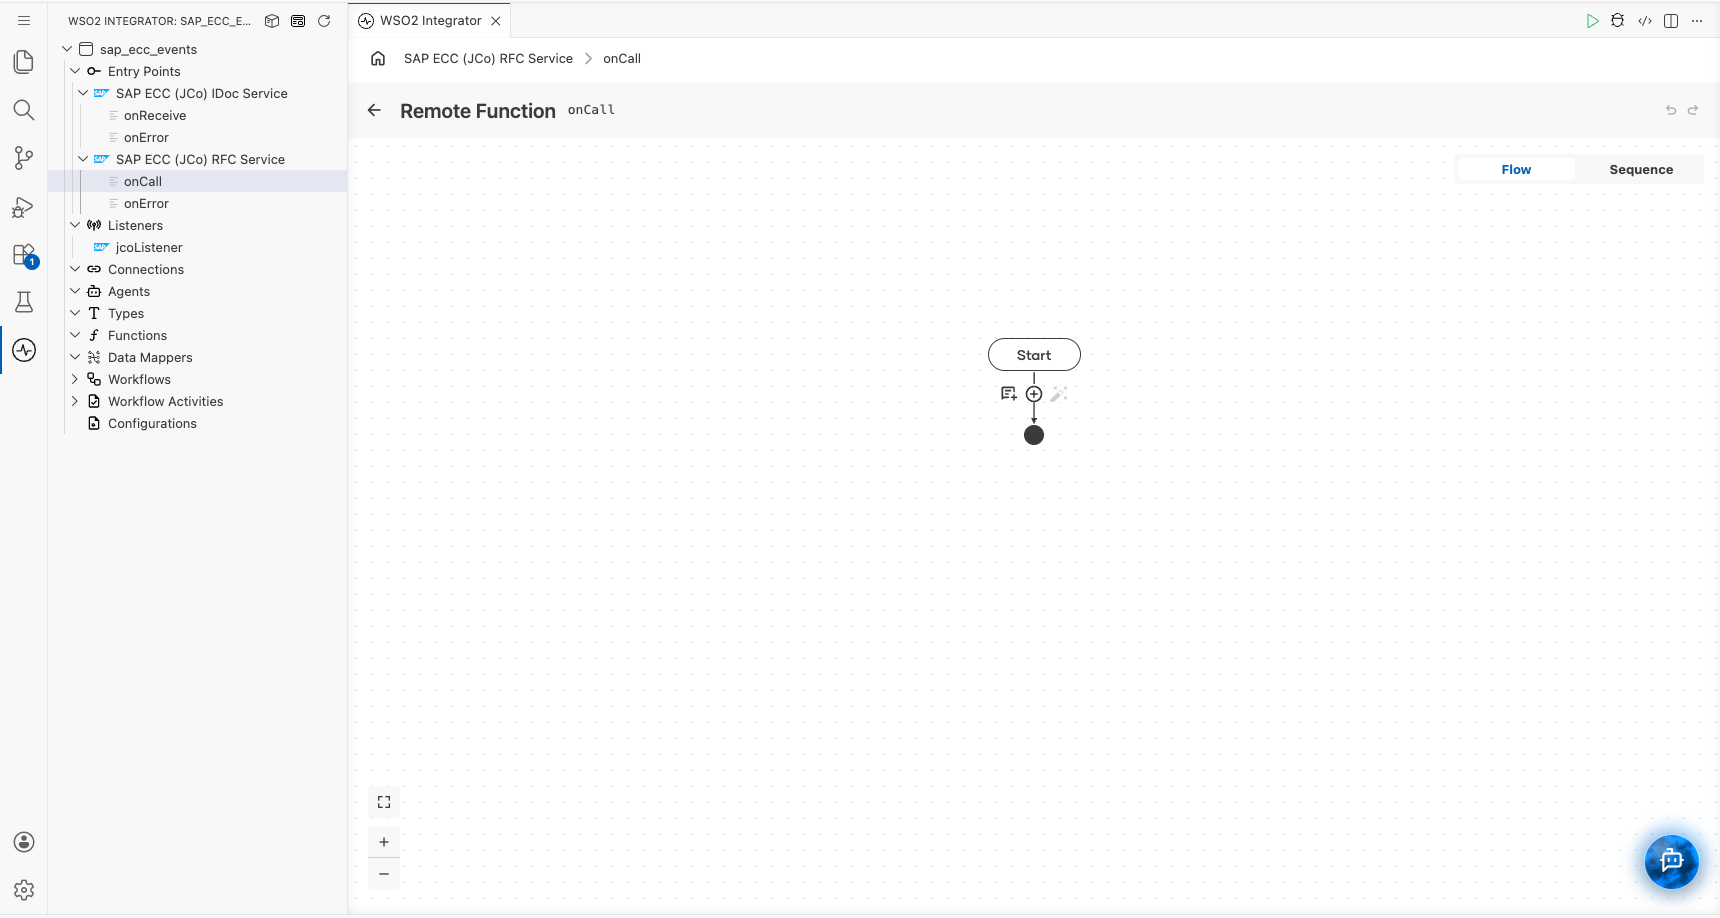
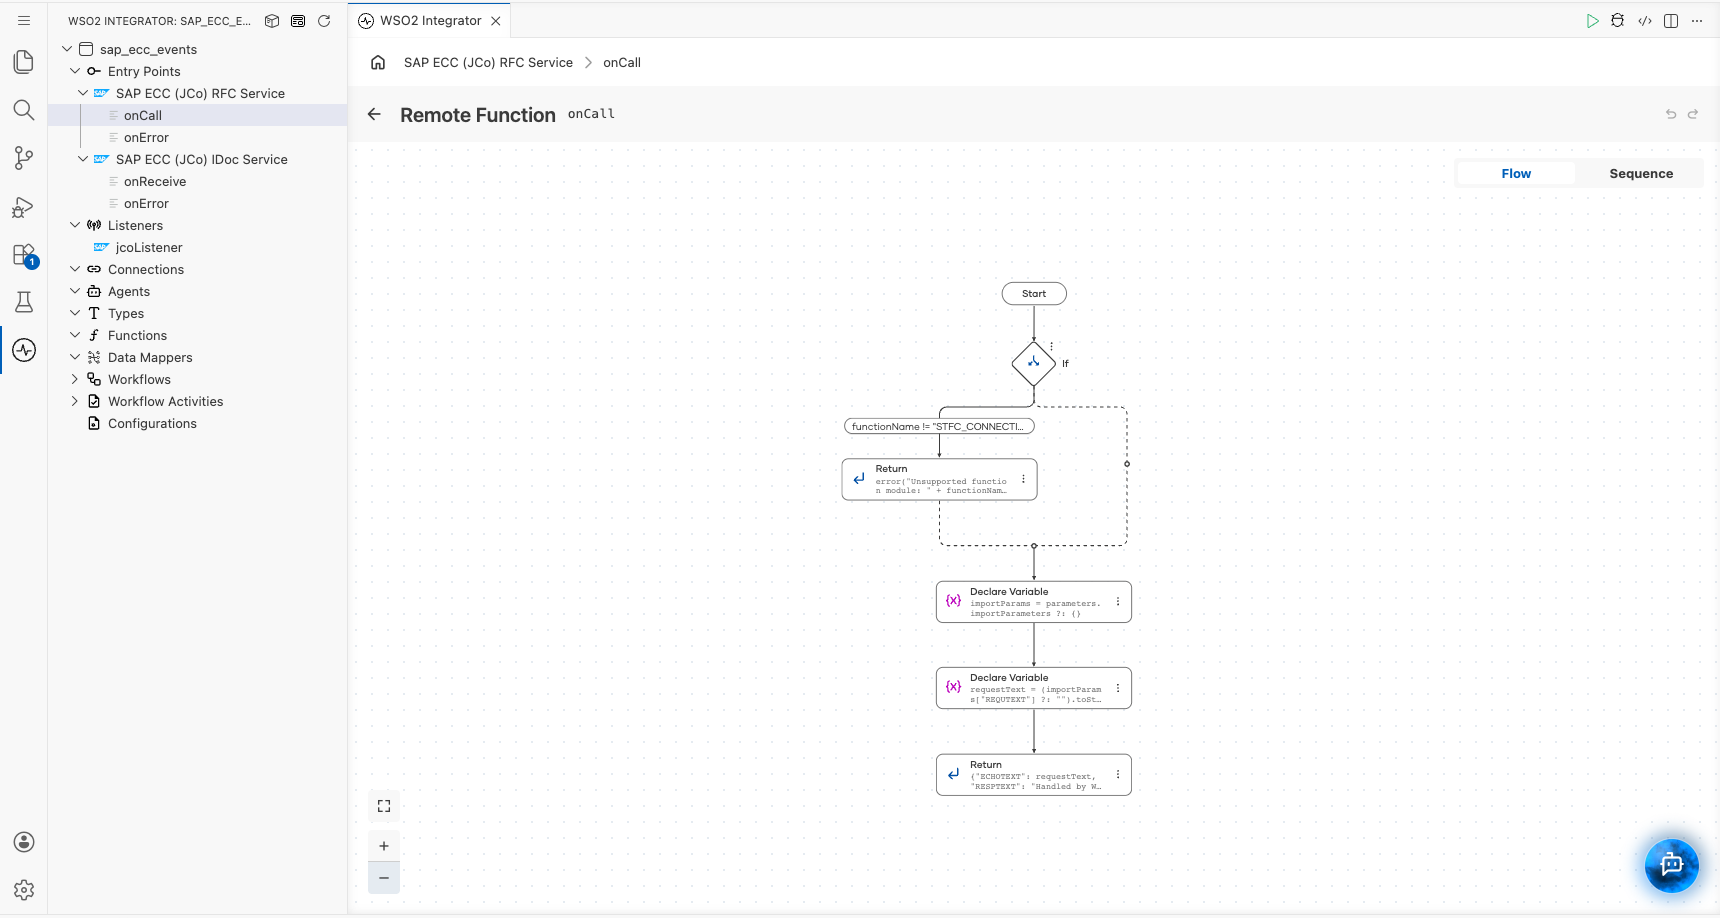
Show the IDoc and RFC handler flows in the Visual Designer and Ballerina Code tabs
Replaces the empty-canvas handler screenshots with the rendered onReceive and
onCall flows and gives the Event handlers section the same two-tab layout as
the rest of the page.

diff --git a/en/docs/develop-and-test/integration-artifacts/event-driven-integration/sap-ecc-events.md b/en/docs/develop-and-test/integration-artifacts/event-driven-integration/sap-ecc-events.md
@@ -362,7 +362,7 @@ The listener starts asynchronously. A successful start means the server has been
 
 ## Event handlers
 
-When an SAP ECC service is created, WSO2 Integrator adds the handlers for the selected service type automatically. Click a handler in the **Service Designer** to open the flow diagram view and implement the processing logic.
+When an SAP ECC service is created, WSO2 Integrator adds the handlers for the selected service type automatically. Click a handler in the **Service Designer** or in the project tree to open it in the **Flow Designer** and implement the processing logic.
 
 ### IDoc Service handlers
 
@@ -371,17 +371,29 @@ When an SAP ECC service is created, WSO2 Integrator adds the handlers for the se
 | `onReceive` | SAP sends an IDoc to the registered program | Transforming the IDoc and forwarding it to downstream systems |
 | `onError` | The JCo runtime reports a gateway, registration, or IDoc parsing error | Logging failures and sending alerts |
 
-Click **onReceive** in the **Service Designer** or in the project tree to open the handler in the **Flow Designer** and add the processing logic.
+`onReceive` receives the IDoc as an `xml` value in the standard `IDOC` XML format. The control record (`EDI_DC40`) carries the IDoc type, message type, and partner details, and the data records follow as segments named after the IDoc segment types.
+
+<Tabs>
+<TabItem value="ui" label="Visual Designer" default>
+
+The following flow reads the message type and IDoc number from the control record, logs them, and branches on the message type to read the order header segment.
 
 <ThemedImage
-    alt="Flow Designer for the SAP ECC (JCo) onReceive handler"
+    alt="Flow Designer for the SAP ECC (JCo) onReceive handler with variable, log, and if nodes"
     sources={{
         light: useBaseUrl('/img/develop/integration-artifacts/event/sap-ecc-events/step-onreceive-flow.png'),
         dark: useBaseUrl('/img/develop/integration-artifacts/event/sap-ecc-events/step-onreceive-flow.png'),
     }}
 />
 
-`onReceive` receives the IDoc as an `xml` value in the standard `IDOC` XML format. The control record (`EDI_DC40`) carries the IDoc type, message type, and partner details, and the data records follow as segments named after the IDoc segment types.
+To build it, click **+** on the canvas and add nodes in order:
+
+1. **Declare Variable** `messageType` with the expression `(iDoc/**/<MESTYP>).data()`, and another for `idocNumber` with `(iDoc/**/<DOCNUM>).data()`.
+2. **Log** (`log:printInfo`) with the message `IDoc received` and the two variables as key-value pairs.
+3. **If** with the condition `messageType == "ORDERS"`. Inside the branch, declare `header` as `iDoc/**/<E1EDK01>` and log `(header/<CURCY>).data()`.
+
+</TabItem>
+<TabItem value="code" label="Ballerina Code">
 
 ```ballerina
 service jco:IDocService on sapListener {
@@ -405,6 +417,10 @@ service jco:IDocService on sapListener {
 }
 ```
 
+
+</TabItem>
+</Tabs>
+
 To work with typed values, declare a record that mirrors the IDoc structure and convert the XML with `xmldata:parseAsType`, or open the IDoc in the [Data Mapper](../supportive-artifacts/data-mapper/data-mapper.md) to map it to your target type.
 
 :::note
@@ -417,16 +433,6 @@ IDoc delivery is fire-and-forget. SAP considers the IDoc delivered as soon as th
 |---|---|---|
 | `onCall` | SAP calls a function module on the RFC destination that points to the registered program | Serving lookups, validations, or callbacks that ABAP programs call synchronously |
 | `onError` | The JCo runtime reports a gateway, registration, parameter construction, or response serialization error | Logging failures and sending alerts |
-
-Click **onCall** to open the handler in the **Flow Designer**. The value you return from the flow is sent back to SAP as the function module's response.
-
-<ThemedImage
-    alt="Flow Designer for the SAP ECC (JCo) onCall handler"
-    sources={{
-        light: useBaseUrl('/img/develop/integration-artifacts/event/sap-ecc-events/step-oncall-flow.png'),
-        dark: useBaseUrl('/img/develop/integration-artifacts/event/sap-ecc-events/step-oncall-flow.png'),
-    }}
-/>
 
 `onCall` receives the name of the function module and its parameters, and its return value is sent back to SAP as the function module's export and table parameters. The function module must exist in the SAP system (it supplies the parameter metadata), but its ABAP implementation is not executed; the integration answers in its place.
 
@@ -444,31 +450,44 @@ Return one of the following:
 | `()` | Returns without data. Use for function modules with no export parameters. |
 | `error` | Raised as an ABAP exception in the calling program. |
 
+<Tabs>
+<TabItem value="ui" label="Visual Designer" default>
+
+The following flow answers `STFC_CONNECTION`, the standard SAP connection test module, and rejects anything else.
+
+<ThemedImage
+    alt="Flow Designer for the SAP ECC (JCo) onCall handler with if, variable, and return nodes"
+    sources={{
+        light: useBaseUrl('/img/develop/integration-artifacts/event/sap-ecc-events/step-oncall-flow.png'),
+        dark: useBaseUrl('/img/develop/integration-artifacts/event/sap-ecc-events/step-oncall-flow.png'),
+    }}
+/>
+
+To build it, click **+** on the canvas and add nodes in order:
+
+1. **If** with the condition `functionName != "STFC_CONNECTION"`. Inside the branch, add **Return** with `error("Unsupported function module: " + functionName)`.
+2. **Declare Variable** `importParams` with `parameters.importParameters ?: {}`, and `requestText` with `(importParams["REQUTEXT"] ?: "").toString()`.
+3. **Return** with the record `{"ECHOTEXT": requestText, "RESPTEXT": "Handled by WSO2 Integrator"}`. Its fields become the export parameters `ECHOTEXT` and `RESPTEXT` on the SAP side.
+
+</TabItem>
+<TabItem value="code" label="Ballerina Code">
+
 ```ballerina
 service jco:RfcService on sapListener {
 
     remote function onCall(string functionName, jco:RfcParameters parameters) returns jco:RfcRecord|xml|error? {
-        match functionName {
-            "STFC_CONNECTION" => {
-                jco:RfcRecord importParams = parameters.importParameters ?: {};
-                return {
-                    "ECHOTEXT": (importParams["REQUTEXT"] ?: "").toString(),
-                    "RESPTEXT": "Handled by WSO2 Integrator"
-                };
-            }
-            "Z_CHECK_CUSTOMER_CREDIT" => {
-                jco:RfcRecord importParams = parameters.importParameters ?: {};
-                string customerId = (importParams["CUSTOMER_ID"] ?: "").toString();
-                return {
-                    "CREDIT_STATUS": "A",
-                    "CREDIT_LIMIT": 50000.00d,
-                    "MESSAGE": "Credit approved for customer " + customerId
-                };
-            }
-            _ => {
-                return error("Unsupported function module: " + functionName);
-            }
+        // Reject function modules this service does not implement.
+        if functionName != "STFC_CONNECTION" {
+            return error("Unsupported function module: " + functionName);
         }
+        // Read the import parameters SAP passed in.
+        jco:RfcRecord importParams = parameters.importParameters ?: {};
+        string requestText = (importParams["REQUTEXT"] ?: "").toString();
+        // The returned record becomes the export parameters of the function module.
+        return {
+            "ECHOTEXT": requestText,
+            "RESPTEXT": "Handled by WSO2 Integrator"
+        };
     }
 
     remote function onError(error err) returns error? {
@@ -476,6 +495,11 @@ service jco:RfcService on sapListener {
     }
 }
 ```
+
+To serve several function modules from one service, branch on `functionName` with a `match` statement and return the record that each module expects.
+
+</TabItem>
+</Tabs>
 
 Field values in a `jco:RfcRecord` can be `string`, `int`, `float`, `decimal`, `boolean`, `time:Date`, `time:TimeOfDay`, `byte[]`, a nested record (structure), or a record array (table).
 

diff --git a/en/versioned_docs/version-5.1.0/develop-and-test/integration-artifacts/event-driven-integration/sap-ecc-events.md b/en/versioned_docs/version-5.1.0/develop-and-test/integration-artifacts/event-driven-integration/sap-ecc-events.md
@@ -362,7 +362,7 @@ The listener starts asynchronously. A successful start means the server has been
 
 ## Event handlers
 
-When an SAP ECC service is created, WSO2 Integrator adds the handlers for the selected service type automatically. Click a handler in the **Service Designer** to open the flow diagram view and implement the processing logic.
+When an SAP ECC service is created, WSO2 Integrator adds the handlers for the selected service type automatically. Click a handler in the **Service Designer** or in the project tree to open it in the **Flow Designer** and implement the processing logic.
 
 ### IDoc Service handlers
 
@@ -371,17 +371,29 @@ When an SAP ECC service is created, WSO2 Integrator adds the handlers for the se
 | `onReceive` | SAP sends an IDoc to the registered program | Transforming the IDoc and forwarding it to downstream systems |
 | `onError` | The JCo runtime reports a gateway, registration, or IDoc parsing error | Logging failures and sending alerts |
 
-Click **onReceive** in the **Service Designer** or in the project tree to open the handler in the **Flow Designer** and add the processing logic.
+`onReceive` receives the IDoc as an `xml` value in the standard `IDOC` XML format. The control record (`EDI_DC40`) carries the IDoc type, message type, and partner details, and the data records follow as segments named after the IDoc segment types.
+
+<Tabs>
+<TabItem value="ui" label="Visual Designer" default>
+
+The following flow reads the message type and IDoc number from the control record, logs them, and branches on the message type to read the order header segment.
 
 <ThemedImage
-    alt="Flow Designer for the SAP ECC (JCo) onReceive handler"
+    alt="Flow Designer for the SAP ECC (JCo) onReceive handler with variable, log, and if nodes"
     sources={{
         light: useBaseUrl('/img/develop/integration-artifacts/event/sap-ecc-events/step-onreceive-flow.png'),
         dark: useBaseUrl('/img/develop/integration-artifacts/event/sap-ecc-events/step-onreceive-flow.png'),
     }}
 />
 
-`onReceive` receives the IDoc as an `xml` value in the standard `IDOC` XML format. The control record (`EDI_DC40`) carries the IDoc type, message type, and partner details, and the data records follow as segments named after the IDoc segment types.
+To build it, click **+** on the canvas and add nodes in order:
+
+1. **Declare Variable** `messageType` with the expression `(iDoc/**/<MESTYP>).data()`, and another for `idocNumber` with `(iDoc/**/<DOCNUM>).data()`.
+2. **Log** (`log:printInfo`) with the message `IDoc received` and the two variables as key-value pairs.
+3. **If** with the condition `messageType == "ORDERS"`. Inside the branch, declare `header` as `iDoc/**/<E1EDK01>` and log `(header/<CURCY>).data()`.
+
+</TabItem>
+<TabItem value="code" label="Ballerina Code">
 
 ```ballerina
 service jco:IDocService on sapListener {
@@ -405,6 +417,10 @@ service jco:IDocService on sapListener {
 }
 ```
 
+
+</TabItem>
+</Tabs>
+
 To work with typed values, declare a record that mirrors the IDoc structure and convert the XML with `xmldata:parseAsType`, or open the IDoc in the [Data Mapper](../supportive-artifacts/data-mapper/data-mapper.md) to map it to your target type.
 
 :::note
@@ -417,16 +433,6 @@ IDoc delivery is fire-and-forget. SAP considers the IDoc delivered as soon as th
 |---|---|---|
 | `onCall` | SAP calls a function module on the RFC destination that points to the registered program | Serving lookups, validations, or callbacks that ABAP programs call synchronously |
 | `onError` | The JCo runtime reports a gateway, registration, parameter construction, or response serialization error | Logging failures and sending alerts |
-
-Click **onCall** to open the handler in the **Flow Designer**. The value you return from the flow is sent back to SAP as the function module's response.
-
-<ThemedImage
-    alt="Flow Designer for the SAP ECC (JCo) onCall handler"
-    sources={{
-        light: useBaseUrl('/img/develop/integration-artifacts/event/sap-ecc-events/step-oncall-flow.png'),
-        dark: useBaseUrl('/img/develop/integration-artifacts/event/sap-ecc-events/step-oncall-flow.png'),
-    }}
-/>
 
 `onCall` receives the name of the function module and its parameters, and its return value is sent back to SAP as the function module's export and table parameters. The function module must exist in the SAP system (it supplies the parameter metadata), but its ABAP implementation is not executed; the integration answers in its place.
 
@@ -444,31 +450,44 @@ Return one of the following:
 | `()` | Returns without data. Use for function modules with no export parameters. |
 | `error` | Raised as an ABAP exception in the calling program. |
 
+<Tabs>
+<TabItem value="ui" label="Visual Designer" default>
+
+The following flow answers `STFC_CONNECTION`, the standard SAP connection test module, and rejects anything else.
+
+<ThemedImage
+    alt="Flow Designer for the SAP ECC (JCo) onCall handler with if, variable, and return nodes"
+    sources={{
+        light: useBaseUrl('/img/develop/integration-artifacts/event/sap-ecc-events/step-oncall-flow.png'),
+        dark: useBaseUrl('/img/develop/integration-artifacts/event/sap-ecc-events/step-oncall-flow.png'),
+    }}
+/>
+
+To build it, click **+** on the canvas and add nodes in order:
+
+1. **If** with the condition `functionName != "STFC_CONNECTION"`. Inside the branch, add **Return** with `error("Unsupported function module: " + functionName)`.
+2. **Declare Variable** `importParams` with `parameters.importParameters ?: {}`, and `requestText` with `(importParams["REQUTEXT"] ?: "").toString()`.
+3. **Return** with the record `{"ECHOTEXT": requestText, "RESPTEXT": "Handled by WSO2 Integrator"}`. Its fields become the export parameters `ECHOTEXT` and `RESPTEXT` on the SAP side.
+
+</TabItem>
+<TabItem value="code" label="Ballerina Code">
+
 ```ballerina
 service jco:RfcService on sapListener {
 
     remote function onCall(string functionName, jco:RfcParameters parameters) returns jco:RfcRecord|xml|error? {
-        match functionName {
-            "STFC_CONNECTION" => {
-                jco:RfcRecord importParams = parameters.importParameters ?: {};
-                return {
-                    "ECHOTEXT": (importParams["REQUTEXT"] ?: "").toString(),
-                    "RESPTEXT": "Handled by WSO2 Integrator"
-                };
-            }
-            "Z_CHECK_CUSTOMER_CREDIT" => {
-                jco:RfcRecord importParams = parameters.importParameters ?: {};
-                string customerId = (importParams["CUSTOMER_ID"] ?: "").toString();
-                return {
-                    "CREDIT_STATUS": "A",
-                    "CREDIT_LIMIT": 50000.00d,
-                    "MESSAGE": "Credit approved for customer " + customerId
-                };
-            }
-            _ => {
-                return error("Unsupported function module: " + functionName);
-            }
+        // Reject function modules this service does not implement.
+        if functionName != "STFC_CONNECTION" {
+            return error("Unsupported function module: " + functionName);
         }
+        // Read the import parameters SAP passed in.
+        jco:RfcRecord importParams = parameters.importParameters ?: {};
+        string requestText = (importParams["REQUTEXT"] ?: "").toString();
+        // The returned record becomes the export parameters of the function module.
+        return {
+            "ECHOTEXT": requestText,
+            "RESPTEXT": "Handled by WSO2 Integrator"
+        };
     }
 
     remote function onError(error err) returns error? {
@@ -476,6 +495,11 @@ service jco:RfcService on sapListener {
     }
 }
 ```
+
+To serve several function modules from one service, branch on `functionName` with a `match` statement and return the record that each module expects.
+
+</TabItem>
+</Tabs>
 
 Field values in a `jco:RfcRecord` can be `string`, `int`, `float`, `decimal`, `boolean`, `time:Date`, `time:TimeOfDay`, `byte[]`, a nested record (structure), or a record array (table).
 
